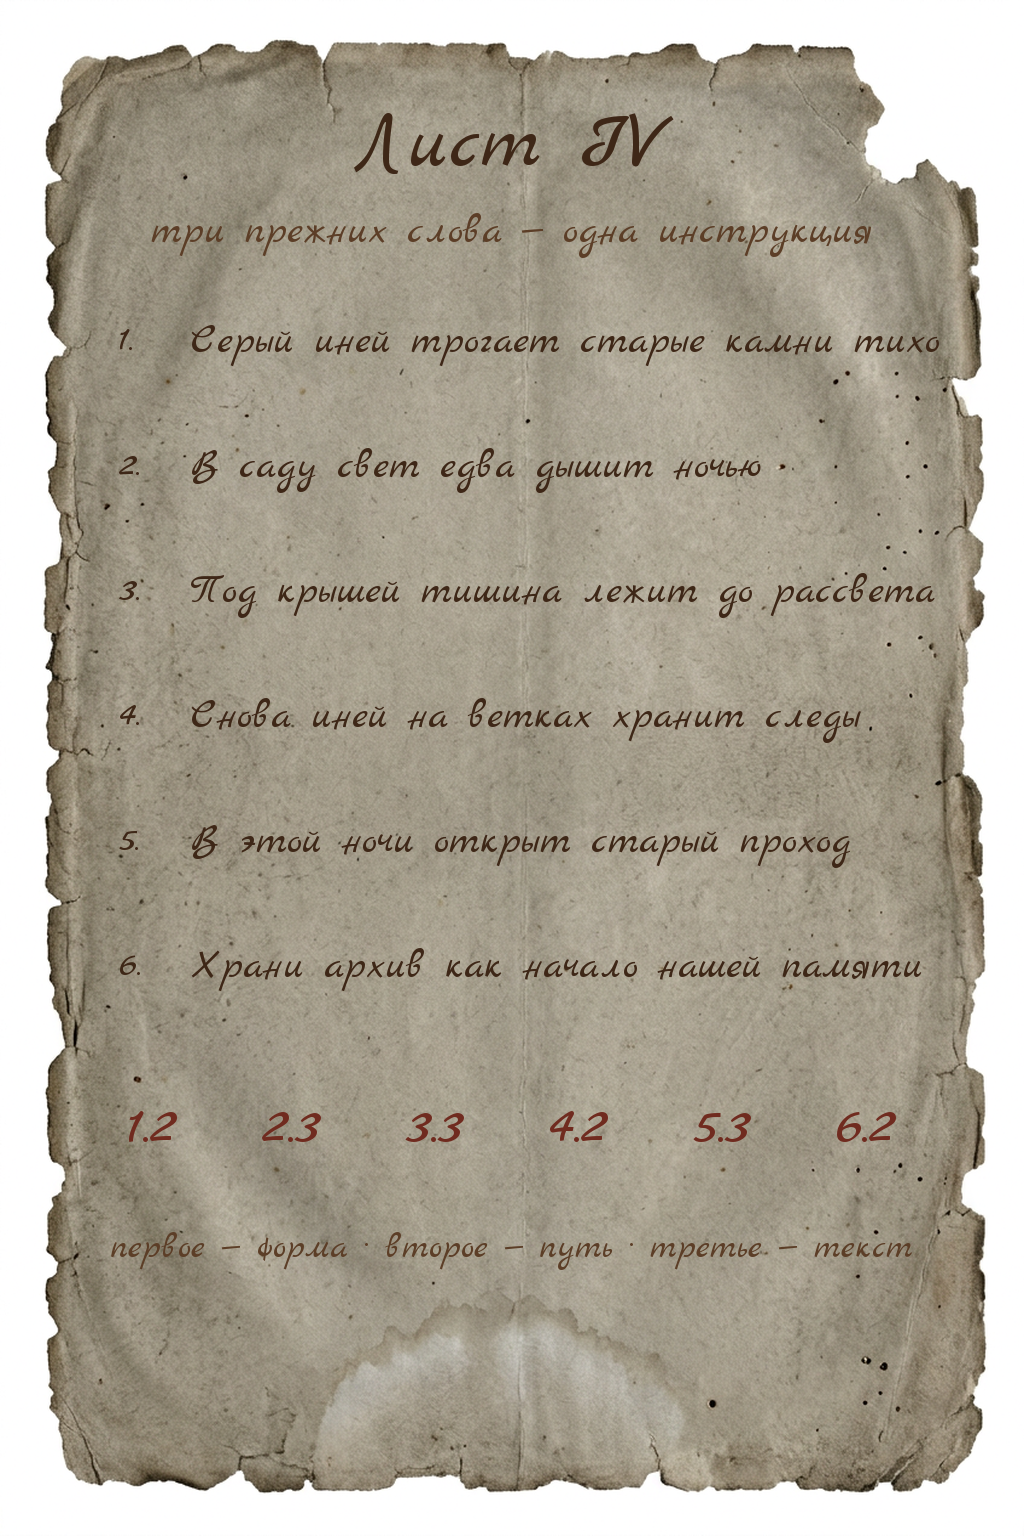
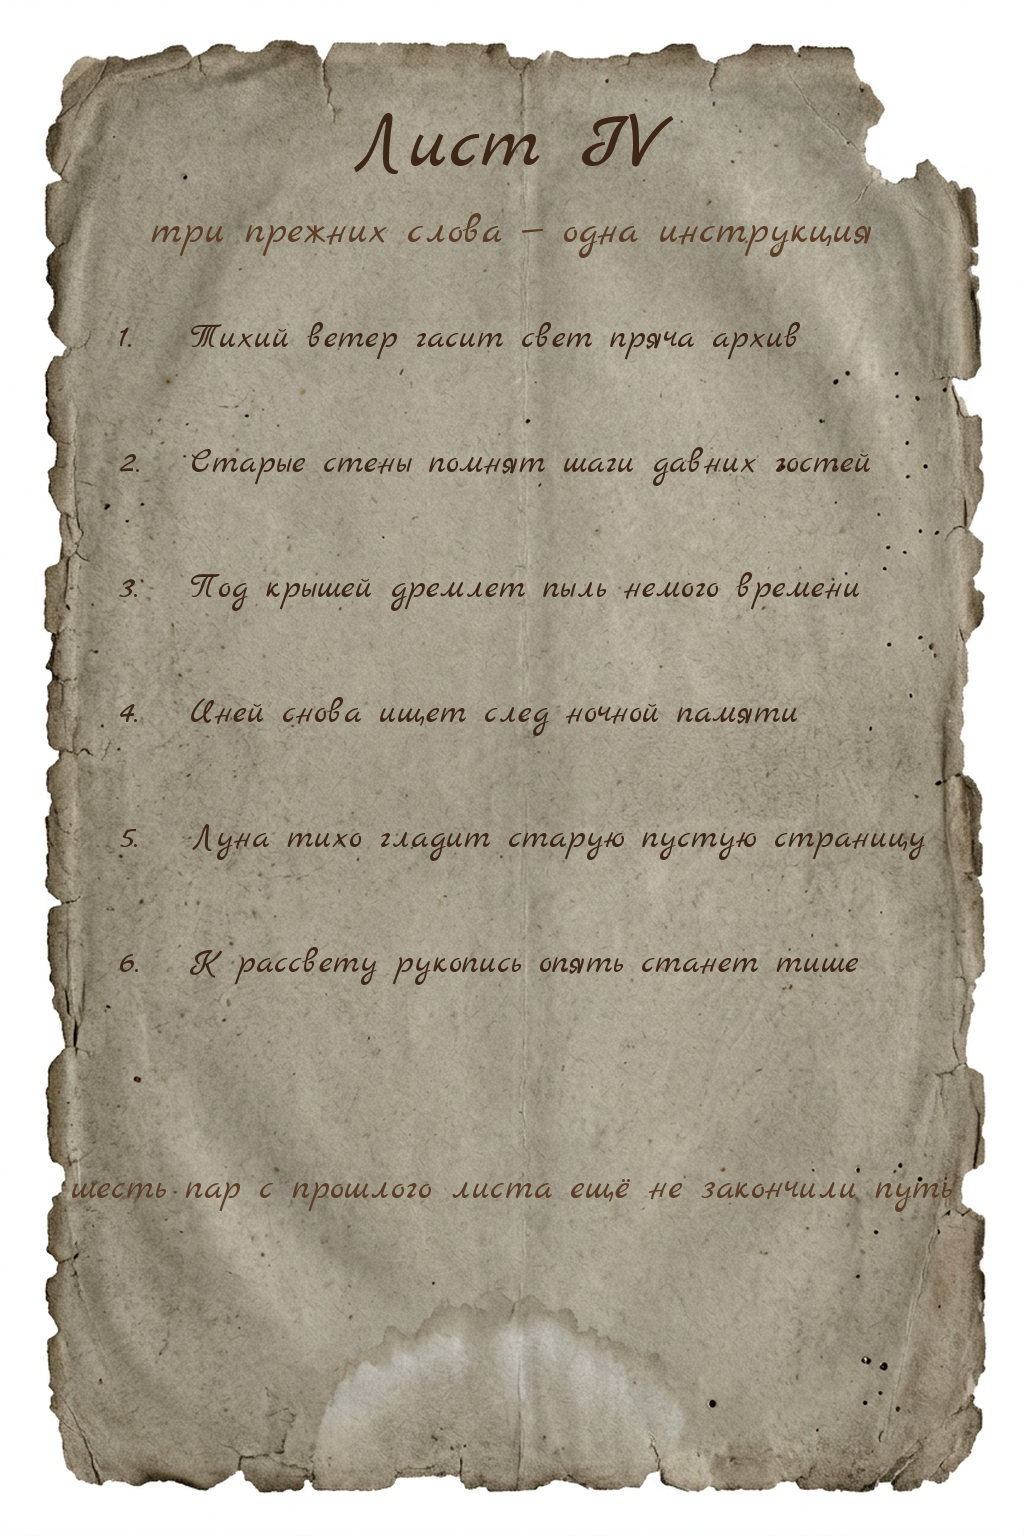
Reuse the N3 Polybius pairs on the final sheet

diff --git a/bot/tools/make_quest_assets.py b/bot/tools/make_quest_assets.py
@@ -653,18 +653,19 @@ def make_n3():
         polybius_pairs.append(f"{index // 6 + 1}{index % 6 + 1}")
     assert len(polybius_alphabet) == 33
     assert polybius_pairs == ["43", "14", "11", "41", "45", "16"]
-    # Три предыдущих ответа становятся инструкцией к финалу:
+    # Три предыдущих ответа становятся одной механикой финала:
     # РЕШЕТКА = 6×6 слов, ПОЛИБИЙ = строка.столбец, СТРОФА = материал.
+    # Координаты, которыми на листе III было записано СТРОФА, используются повторно.
     stanza = [
-        "Серый иней трогает старые камни тихо",       # 1.2 И
-        "В саду свет едва дышит ночью",               # 2.3 С
-        "Под крышей тишина лежит до рассвета",        # 3.3 Т
-        "Снова иней на ветках хранит следы",          # 4.2 И
-        "В этой ночи открыт старый проход",           # 5.3 Н
-        "Храни архив как начало нашей памяти",        # 6.2 А
+        "Тихий ветер гасит свет пряча архив",              # 1.1 Т, 1.4 С, 1.6 А
+        "Старые стены помнят шаги давних гостей",
+        "Под крышей дремлет пыль немого времени",
+        "Иней снова ищет след ночной памяти",             # 4.1 И, 4.3 И, 4.5 Н
+        "Луна тихо гладит старую пустую страницу",
+        "К рассвету рукопись опять станет тише",
     ]
     assert all(len(line.split()) == 6 for line in stanza)
-    picks = [(1, 2), (2, 3), (3, 3), (4, 2), (5, 3), (6, 2)]
+    picks = [(int(pair[0]), int(pair[1])) for pair in polybius_pairs]
     got = []
     for line_index, word_index in picks:
         word = stanza[line_index - 1].split()[word_index - 1]
@@ -802,19 +803,18 @@ def make_n3():
     draw = ImageDraw.Draw(page4)
     centered_text(draw, "Лист IV", 95, script_font(82), ink)
     centered_text(draw, "три прежних слова — одна инструкция", 205, script_font(42), faded_ink)
-    line_font = script_font(42)
-    number_font = script_font(40)
+    line_font = script_font(36)
+    number_font = script_font(36)
     for index, line in enumerate(stanza, start=1):
         y = 315 + (index - 1) * 125
         draw.text((120, y), f"{index}.", fill=ink, font=number_font)
         draw.text((190, y), line, fill=ink, font=line_font)
     coordinates = "   ".join(f"{line}.{word}" for line, word in picks)
-    centered_text(draw, coordinates, 1090, script_font(60), accent)
     centered_text(
         draw,
-        "первое — форма · второе — путь · третье — текст",
-        1225,
-        script_font(36),
+        "шесть пар с прошлого листа ещё не закончили путь",
+        1165,
+        script_font(38),
         faded_ink,
     )
     page4.save(OUT / "artifact_3d.png", optimize=True)

diff --git a/bot/test_n3_cards.py b/bot/test_n3_cards.py
@@ -86,7 +86,9 @@ class N3CardStyleTests(unittest.TestCase):
         self.assertIn("ПОЛИБИЙ = строка.столбец", n3)
         self.assertIn("СТРОФА = материал", n3)
         self.assertIn("assert all(len(line.split()) == 6 for line in stanza)", n3)
-        self.assertIn("первое — форма · второе — путь · третье — текст", n3)
+        self.assertIn("picks = [(int(pair[0]), int(pair[1])) for pair in polybius_pairs]", n3)
+        self.assertIn("шесть пар с прошлого листа ещё не закончили путь", n3)
+        self.assertNotIn('centered_text(draw, coordinates', n3)
 
     def test_reference_and_open_font_are_bundled(self):
         source_dir = REPO_ROOT / "bot" / "quest" / "source"

diff --git a/bot/docs/QUEST_WALKTHROUGH.md b/bot/docs/QUEST_WALKTHROUGH.md
@@ -156,22 +156,24 @@ LSB и цветовые каналы **нет** (это уже вход из SIG
 
 ### Ответ 4 → `ИСТИНА`
 
-Лист IV специально требует все три предыдущих ответа:
+Лист IV механически требует все три предыдущих ответа:
 
 1. **РЕШЕТКА** — представить строфу как решётку 6×6: шесть строк по шесть слов.
 2. **ПОЛИБИЙ** — читать пары как координаты `строка.столбец`.
-3. **СТРОФА** — материалом для решётки служит текст из шести строк.
+3. **СТРОФА** — использовать именно пары, которыми это слово было записано на
+   листе III: `43 14 11 41 45 16`.
 
+На листе IV новых координат нет: шесть старых пар переносятся в новую строфу.
 После выбора клетки берётся первая буква находящегося в ней слова:
 
-| коорд | слово   | буква |
-| ----- | ------- | ----- |
-| 1.2   | иней    | И     |
-| 2.3   | свет    | С     |
-| 3.3   | тишина  | Т     |
-| 4.2   | иней    | И     |
-| 5.3   | ночи    | Н     |
-| 6.2   | архив   | А     |
+| коорд | слово  | буква |
+| ----- | ------ | ----- |
+| `43`  | ищет   | И |
+| `14`  | свет   | С |
+| `11`  | Тихий  | Т |
+| `41`  | Иней   | И |
+| `45`  | ночной | Н |
+| `16`  | архив  | А |
 
 Получается **ИСТИНА**. В бота: **ИСТИНА**.
 
